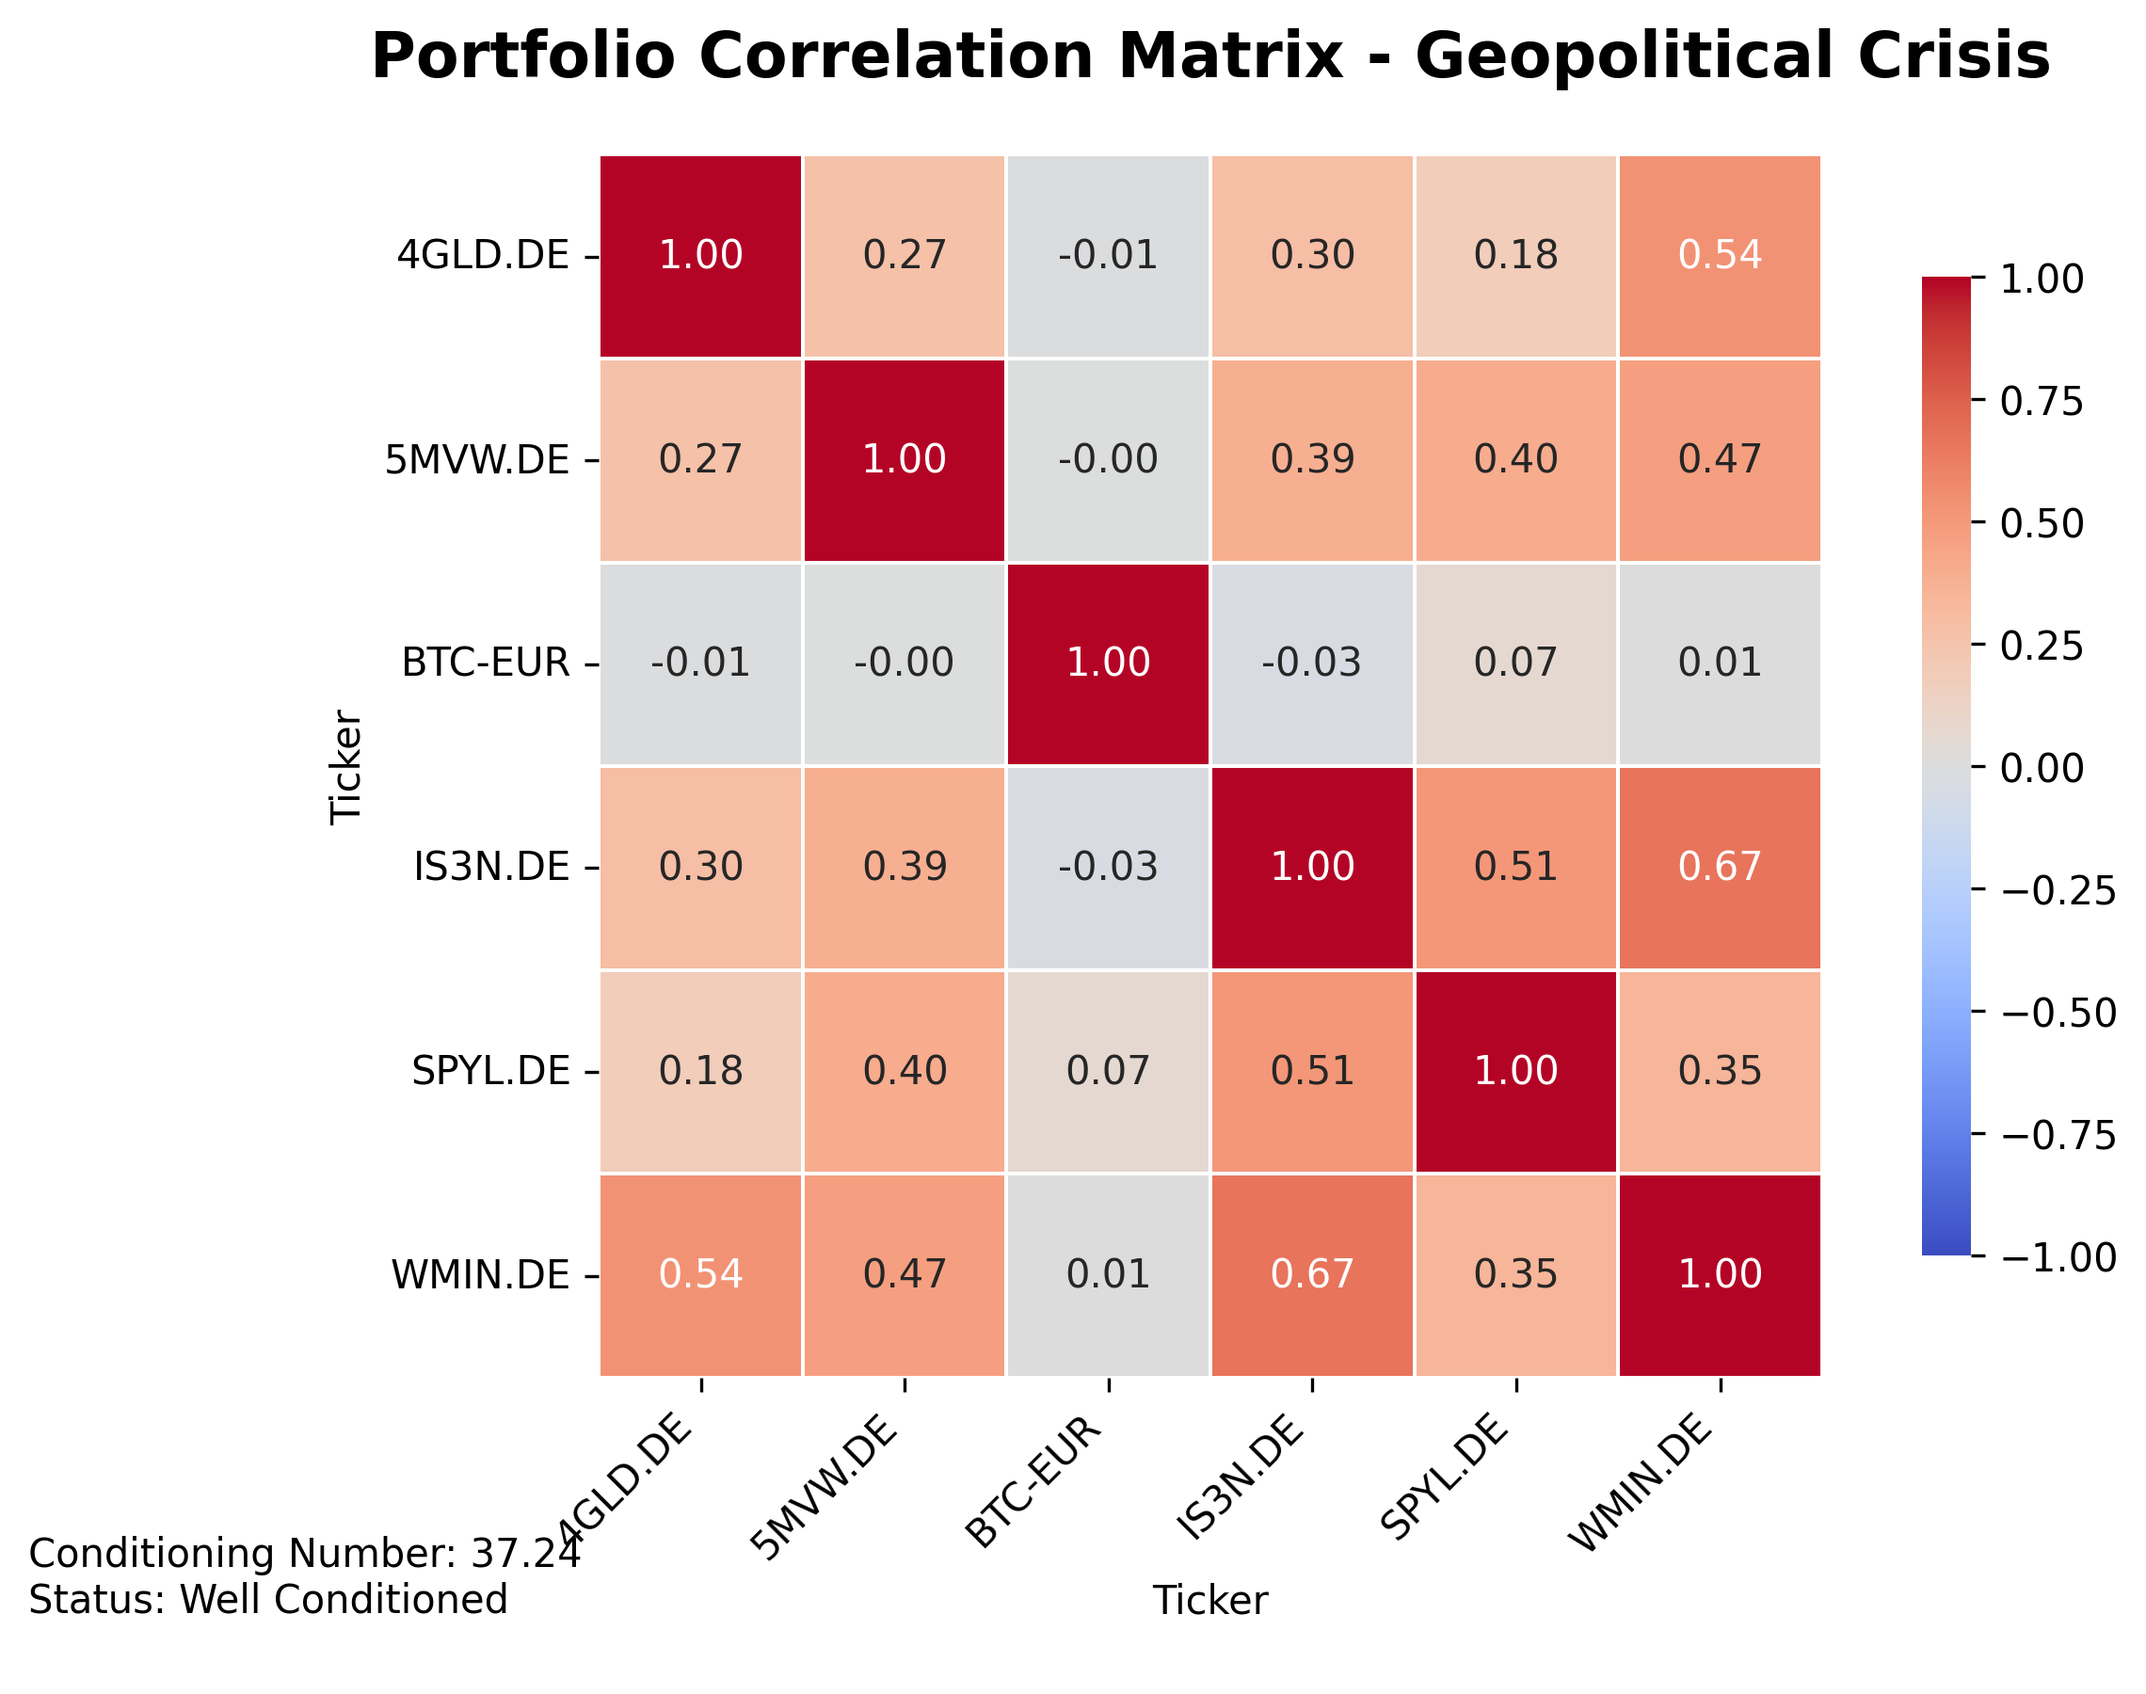
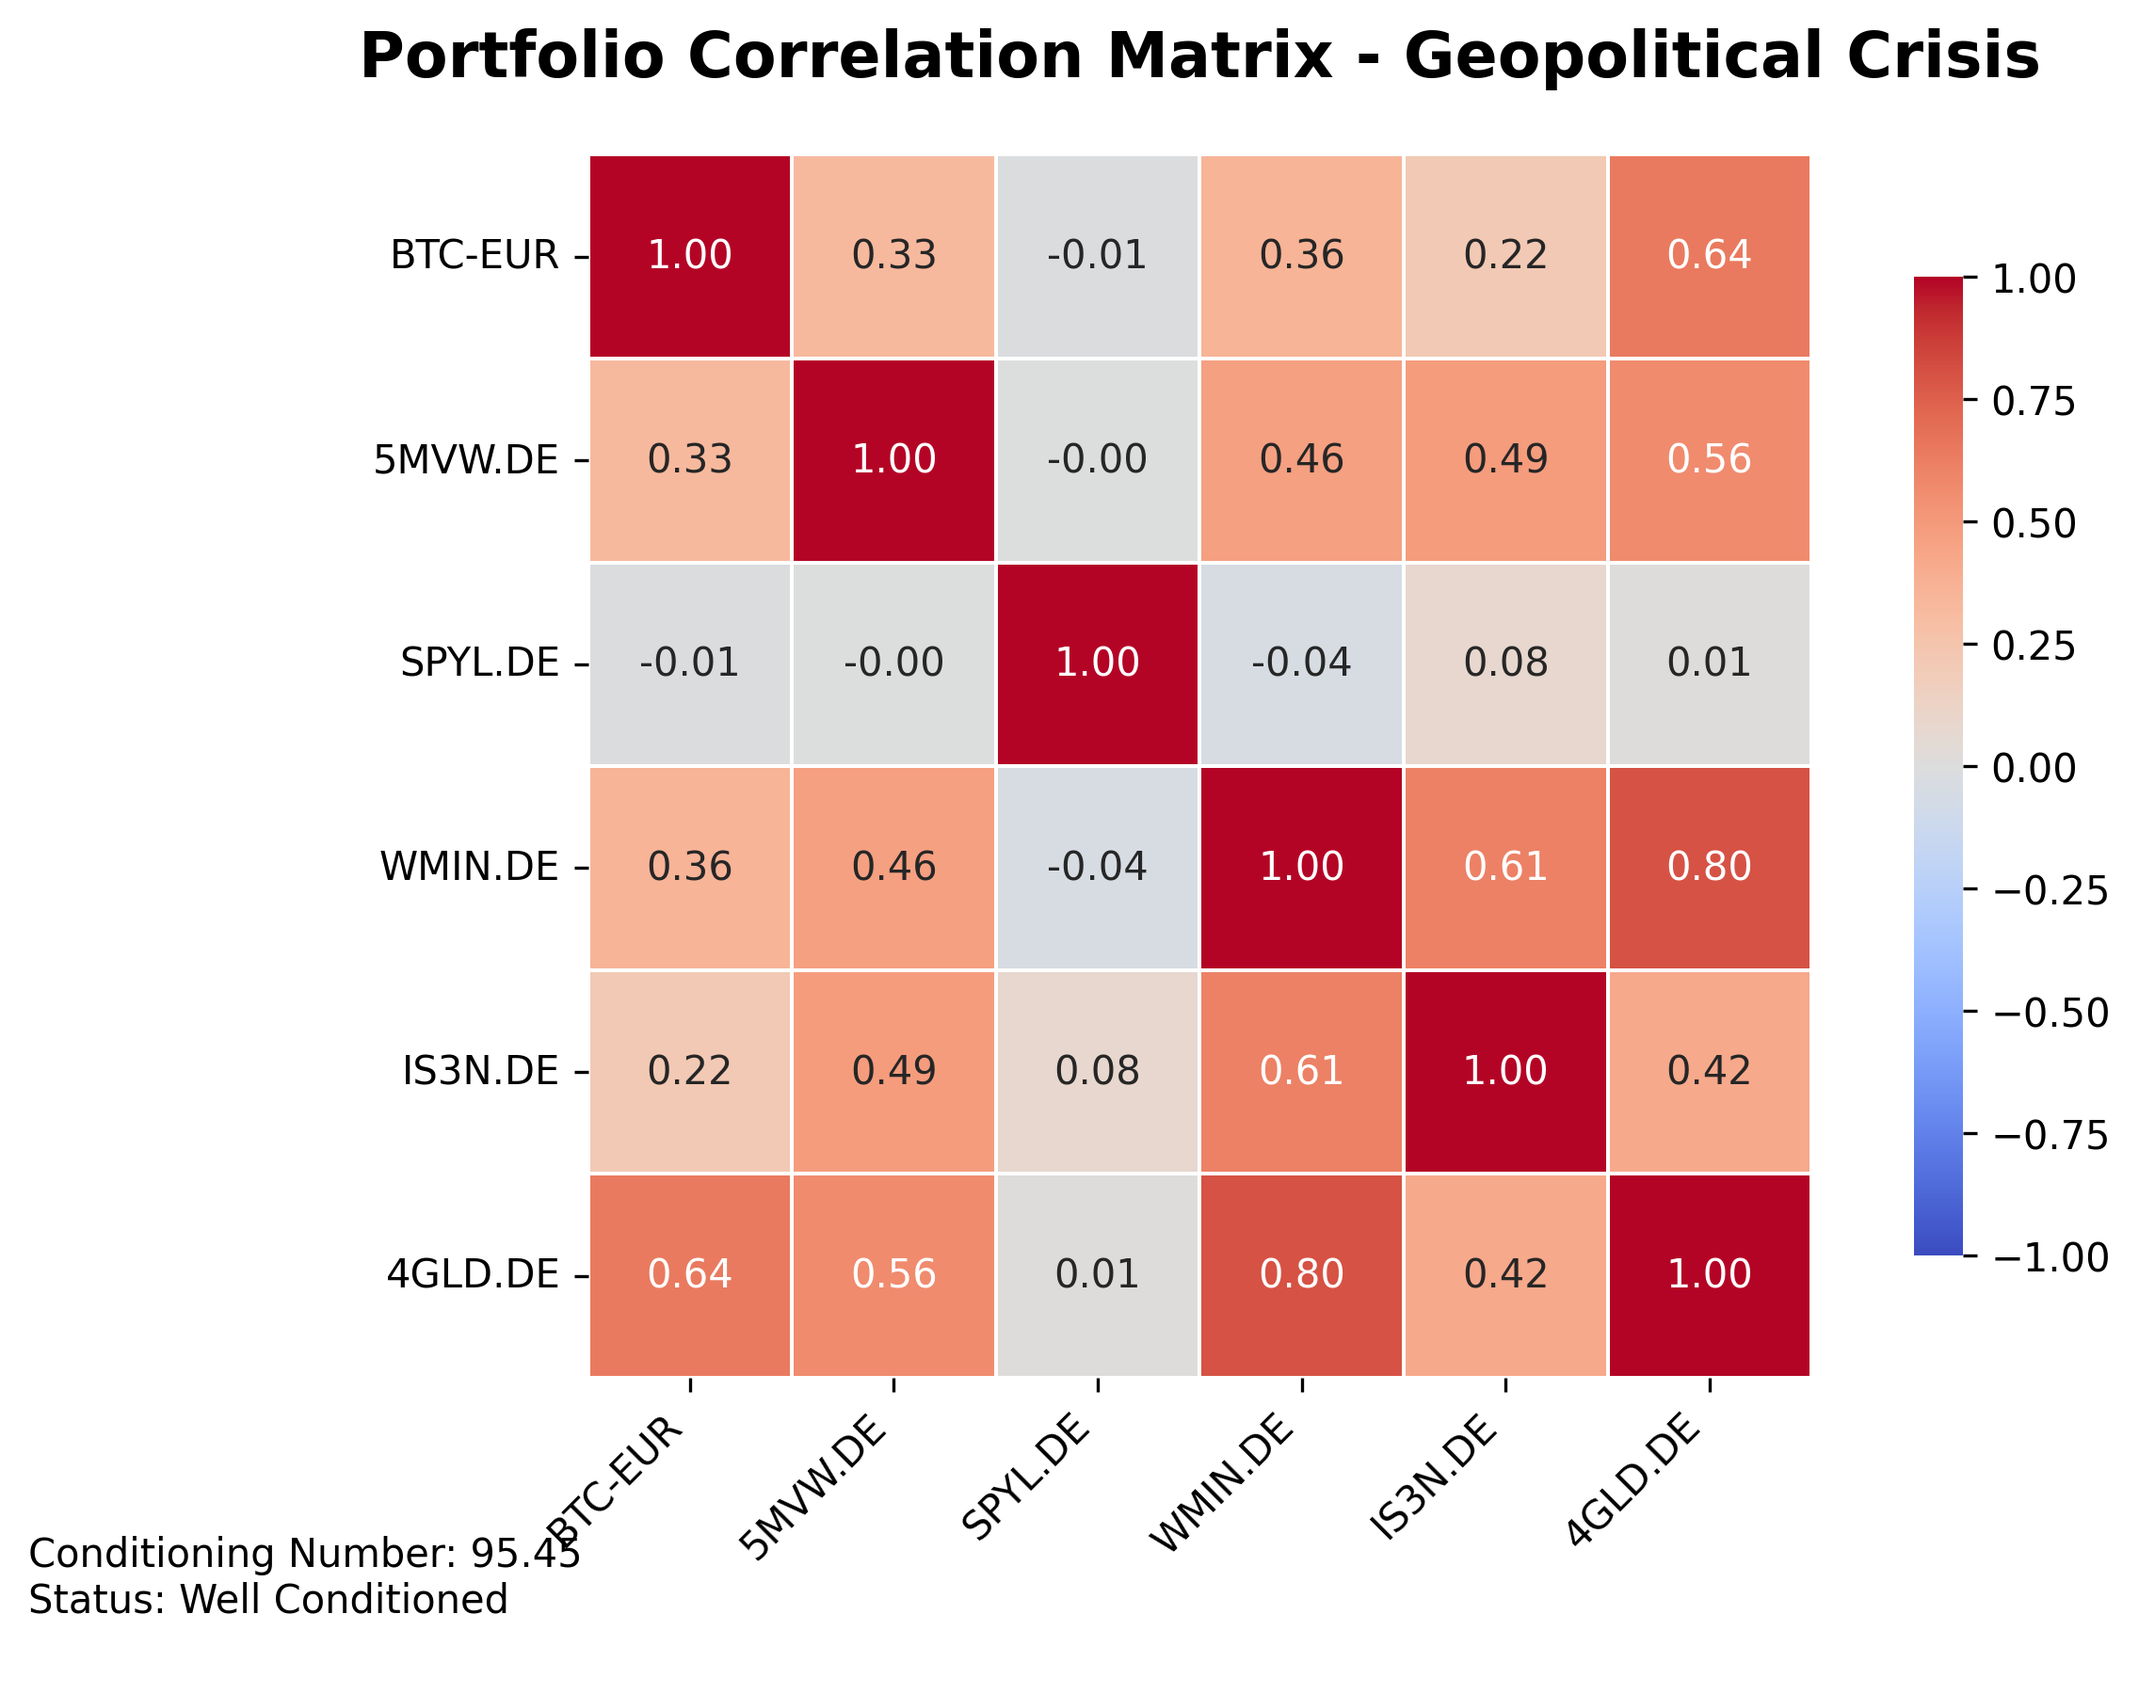
Update charts and enhance covariance matrix analysis
- Enhanced `modify_portfolio_for_regime` to include correlation adjustment based on regime-specific factors, refining risk assessment capabilities.

diff --git a/src/monte_carlo.py b/src/monte_carlo.py
@@ -203,15 +203,31 @@ def modify_portfolio_for_regime(mean_returns, cov_matrix, tickers, asset_factors
             #   modified_cov[i, j] = original_cov[i, j] * vol_factor_i * vol_factor_j
             modified_cov_matrix.iloc[i, j] *= vi * vj
 
+    modified_cov_matrix_analysis = get_cov_matrix_analysis(modified_cov_matrix, tickers)
+
+    corr_matrix = modified_cov_matrix_analysis["correlation_matrix"]
+    stdev_outer_product = modified_cov_matrix_analysis["stdev_outer_product"]
+
+    # Adjust all off-diagonal correlations by the regime's correlation_move_pct, then rebuild the covariance matrix.
+    for i in range(len(tickers)):
+        for j in range(len(tickers)):
+            if i != j:
+                new_corr = (
+                    corr_matrix.iloc[i, j]
+                    + corr_matrix.iloc[i, j] * asset_factors["correlation_move_pct"]
+                )
+                corr_matrix.iloc[i, j] = np.clip(new_corr, -1, 1)
+    new_cov = corr_matrix.values * stdev_outer_product
+    modified_cov_matrix = pd.DataFrame(new_cov, index=tickers, columns=tickers)
+
     return modified_mean_returns, modified_cov_matrix
 
 
-def get_cov_matrix_analysis(cov_matrix):
+def get_cov_matrix_analysis(cov_matrix, tickers):
     """
     Return the principal components of a covariance matrix for portfolio risk analysis and visualization.
     Returns eigenvalues, explained variance ratios, eigenvectors, asset names (tickers), condition number, correlation matrix, dominant PC asset info, and explained_variance_by_dominant_pct.
     """
-    asset_tickers = cov_matrix.columns
     eigenvalues, eigenvectors = np.linalg.eig(cov_matrix.values)
 
     # Sort eigenvalues and eigenvectors from largest to smallest
@@ -226,13 +242,11 @@ def get_cov_matrix_analysis(cov_matrix):
 
     # Compute correlation matrix
     std_devs = np.sqrt(np.diag(cov_matrix.values))
-    std_outer = np.outer(std_devs, std_devs)
-    corr_matrix = cov_matrix.values / std_outer
+    stdev_outer_product = np.outer(std_devs, std_devs)
+    corr_matrix = cov_matrix.values / stdev_outer_product
     corr_matrix = np.clip(corr_matrix, -1, 1)  # Numerical safety
 
-    corr_matrix_df = pd.DataFrame(
-        corr_matrix, index=asset_tickers, columns=asset_tickers
-    )
+    corr_matrix_df = pd.DataFrame(corr_matrix, index=tickers, columns=tickers)
 
     # Dominant PC asset info
     dominant_pc_top_assets = []
@@ -240,7 +254,7 @@ def get_cov_matrix_analysis(cov_matrix):
     for i in range(dominant_count):
         vec = eigenvectors[:, i]
         top_idx = np.argsort(np.abs(vec))[::-1][:2]
-        top_assets = ", ".join([asset_tickers[j] for j in top_idx])
+        top_assets = ", ".join([tickers[j] for j in top_idx])
         dominant_pc_top_assets.append(f"PC{i+1}: {top_assets}")
 
     explained_variance_by_dominant_pct = 100 * np.sum(
@@ -255,9 +269,9 @@ def get_cov_matrix_analysis(cov_matrix):
         "eigenvalues": eigenvalues,
         "explained_variance_ratio": explained_variance_ratio,
         "eigenvectors": eigenvectors,
-        "asset_tickers": list(asset_tickers),
         "condition_number": condition_number,
         "correlation_matrix": corr_matrix_df,
         "dominant_pc_top_assets": dominant_pc_top_assets,
         "explained_variance_by_dominant_pct": explained_variance_by_dominant_pct,
+        "stdev_outer_product": stdev_outer_product,
     }

diff --git a/src/main.py b/src/main.py
@@ -39,7 +39,7 @@ historical_paths = simulate_portfolio_paths(
 
 plot_simulation_results(historical_paths, HISTORICAL)
 
-historical_cov_matrix_analysis = get_cov_matrix_analysis(historical_cov_matrix)
+historical_cov_matrix_analysis = get_cov_matrix_analysis(historical_cov_matrix, tickers)
 
 plot_correlation_heatmap(
     historical_cov_matrix_analysis,
@@ -64,7 +64,7 @@ fiat_debasement_paths = simulate_portfolio_paths(
 plot_simulation_results(fiat_debasement_paths, FIAT_DEBASEMENT_REGIME_NAME)
 
 fiat_debasement_cov_matrix_analysis = get_cov_matrix_analysis(
-    fiat_debasement_cov_matrix
+    fiat_debasement_cov_matrix, tickers
 )
 
 plot_correlation_heatmap(
@@ -94,7 +94,7 @@ geopolitical_crisis_paths = simulate_portfolio_paths(
 plot_simulation_results(geopolitical_crisis_paths, GEOPOLITICAL_CRISIS_REGIME_NAME)
 
 geopolitical_crisis_cov_matrix_analysis = get_cov_matrix_analysis(
-    geopolitical_crisis_cov_matrix
+    geopolitical_crisis_cov_matrix, tickers
 )
 
 plot_correlation_heatmap(

diff --git a/src/portfolio.py b/src/portfolio.py
@@ -19,6 +19,7 @@ FIAT_DEBASEMENT_REGIME = {
     "SPYL.DE": {"mean_factor": 1.1, "vol_factor": 1.0},  # S&P up, vol unchanged
     "WMIN.DE": {"mean_factor": 1.2, "vol_factor": 1.2},  # Miners up, more volatile
     "IS3N.DE": {"mean_factor": 1.1, "vol_factor": 1.15},  # EM modest outperformance
+    "correlation_move_pct": -0.15,  # Risk-on: sectors diverge, correlations rise only slightly. Keep low; high values can cause negative eigenvalues and break the matrix.
 }
 
 GEOPOLITICAL_CRISIS_REGIME = {
@@ -28,4 +29,5 @@ GEOPOLITICAL_CRISIS_REGIME = {
     "SPYL.DE": {"mean_factor": 0.8, "vol_factor": 1.3},  # S&P down, choppier
     "WMIN.DE": {"mean_factor": 1.05, "vol_factor": 1.4},  # Miners up, riskier
     "IS3N.DE": {"mean_factor": 0.7, "vol_factor": 1.5},  # EM down, much choppier
+    "correlation_move_pct": 0.2,  # Risk-off: assets move together, correlations rise sharply. Keep low; high values can cause negative eigenvalues and break the matrix.
 }

diff --git a/src/visualization.py b/src/visualization.py
@@ -159,7 +159,12 @@ def plot_correlation_heatmap(corr_matrix_analysis, regime_name):
     condition_number = corr_matrix_analysis["condition_number"]
 
     # Determine conditioning status (arbitrary threshold: < 100 is 'Well', else 'Poorly')
-    cond_status = "Well Conditioned" if condition_number < 100 else "Poorly Conditioned"
+    if condition_number < 0:
+        cond_status = "Invalid (Negative Eigenvalues)"
+    elif condition_number < 100:
+        cond_status = "Well Conditioned"
+    else:
+        cond_status = "Poorly Conditioned"
 
     plt.figure(figsize=(8, 6))
     sns.heatmap(
